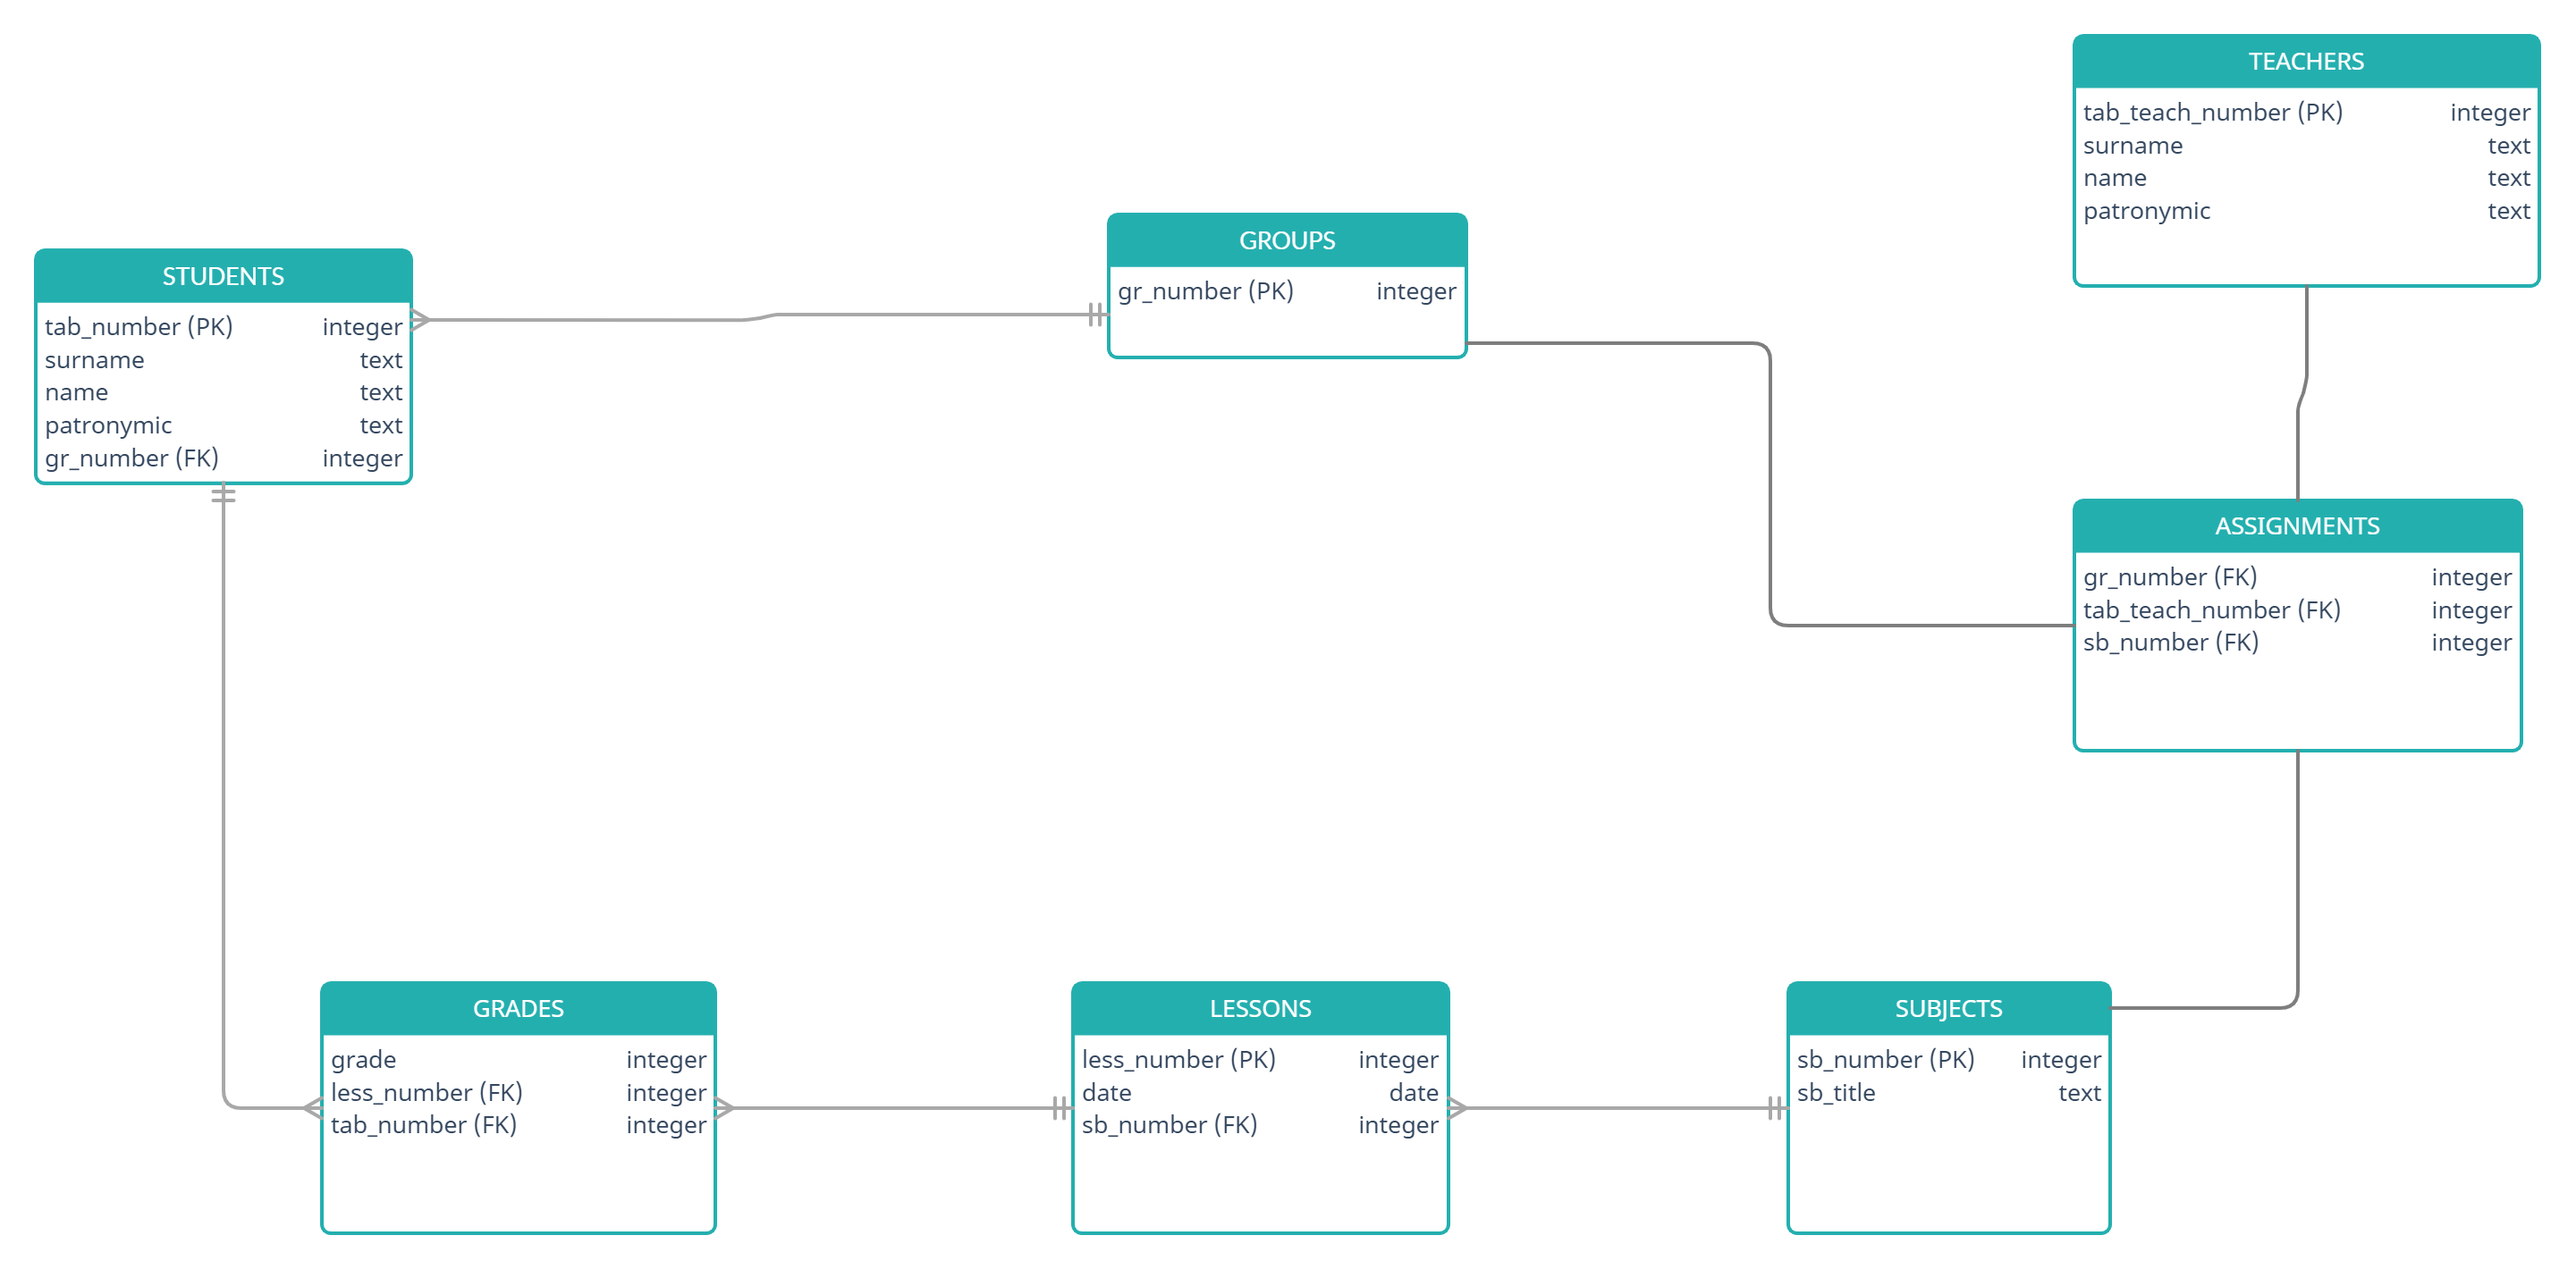
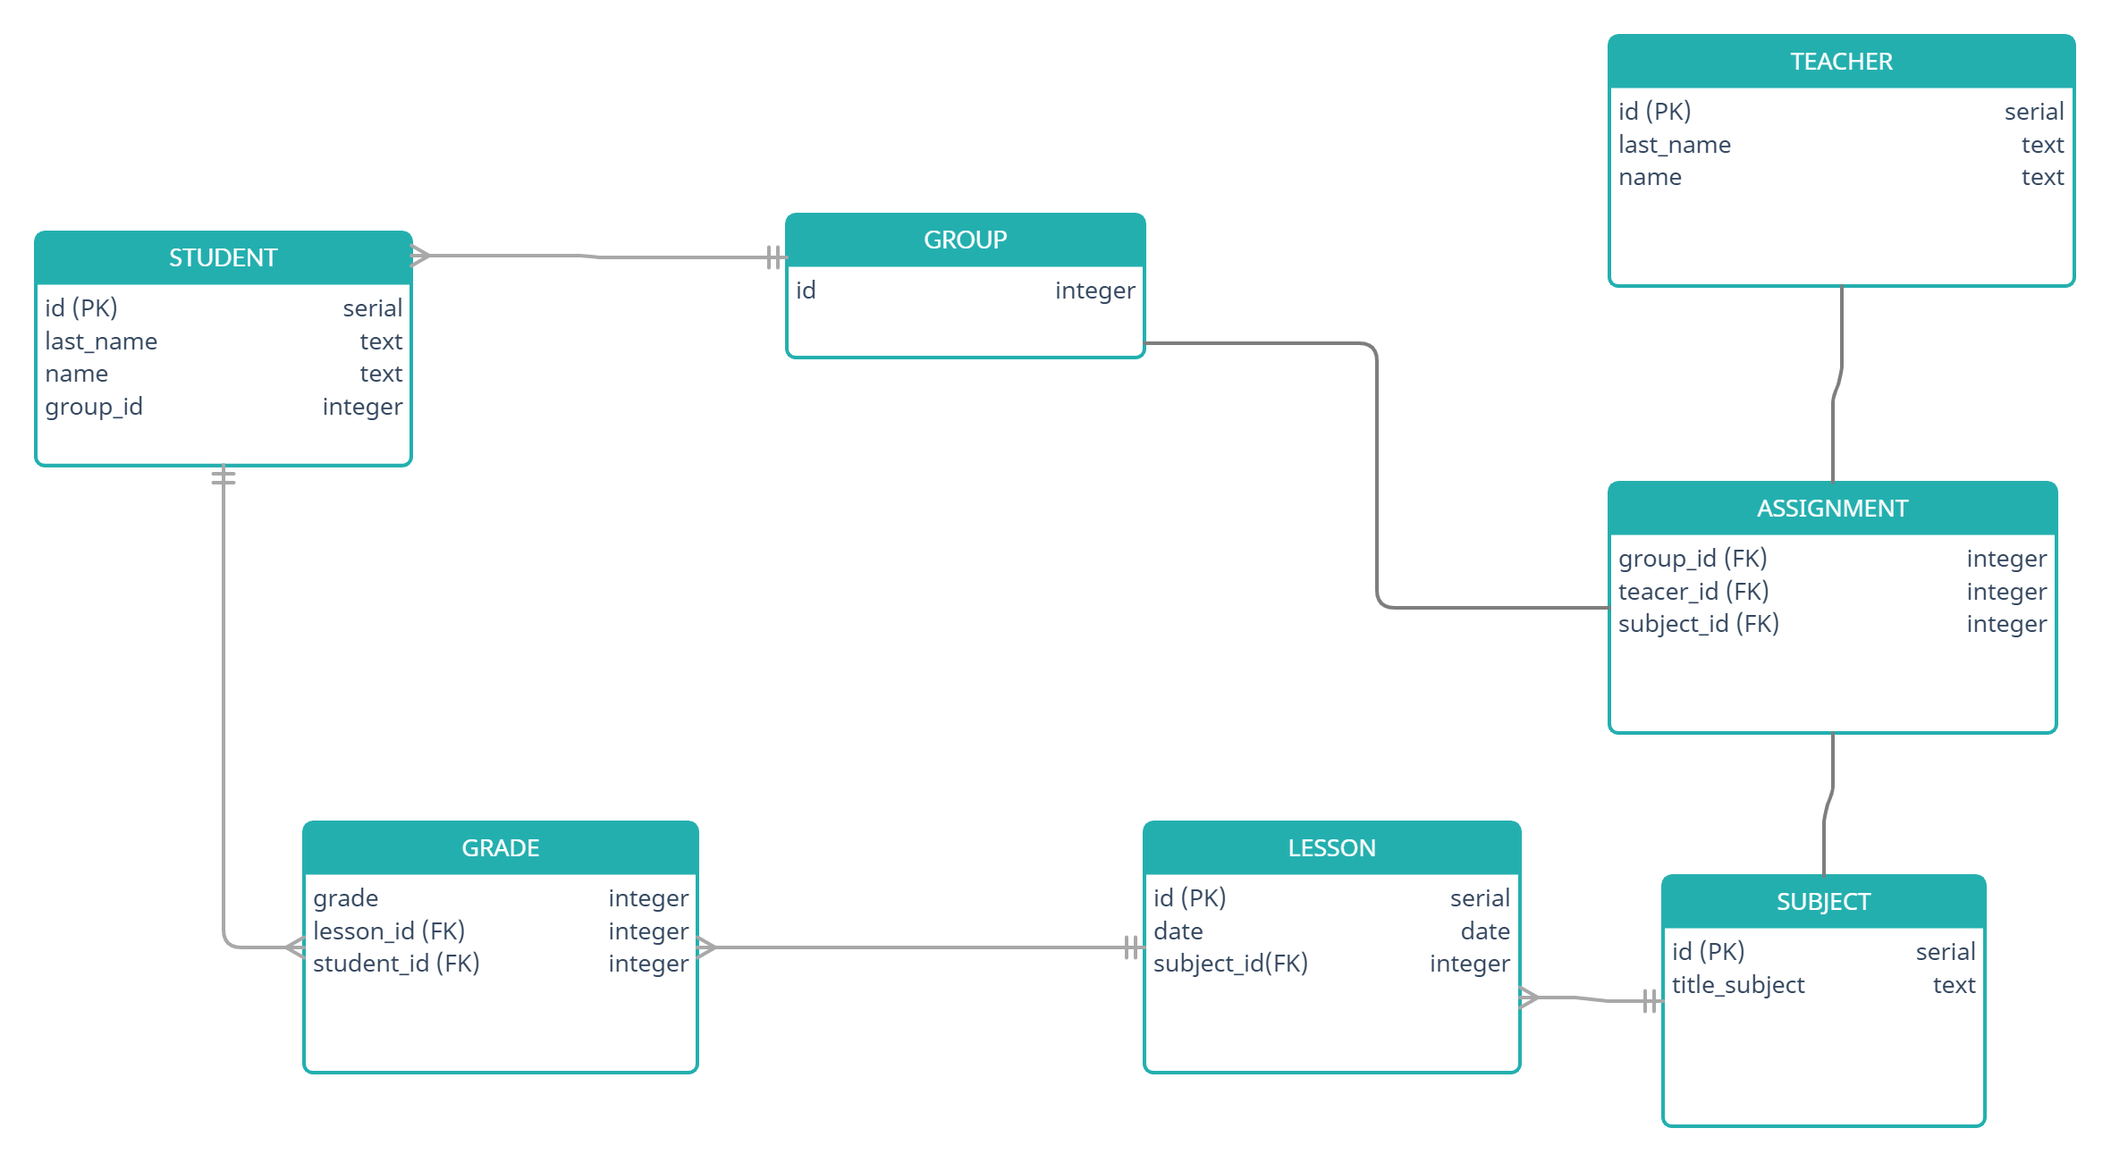
modified db_structure.png

diff --git a/hw8_SQL_database/db_students.py b/hw8_SQL_database/db_students.py
@@ -1,13 +1,61 @@
+
 import psycopg2
-import os
-
-con = psycopg2.connect(
-    database="students_and_grades",
-    user="diet",
-    password=input('input password for DB'),
-    host="81.17.140.55",
-    port="5432"
-)
 
 
-print('Database opened successfully')
+from faker import Faker
+from psycopg2 import Error
+from random import randint
+
+fake = Faker('uk_UA')
+
+try:
+    con = psycopg2.connect(
+        database="students_db",
+        user="diet",
+        password=input('input password for DB'),
+        host="81.17.140.55",
+        port="5432"
+    )
+
+    print('Database opened successfully')
+    cursor = con.cursor()
+
+    groups = (101, 102, 103)
+    # заполняем таблицу group и таблицу student
+    for group in groups:
+        insert_query = f"INSERT INTO public.group (group_number) VALUES ({group})"
+        cursor.execute(insert_query)
+        con.commit()
+        print(f"{group} запись успешно вставлена")
+        # Получить результат
+        cursor.execute("SELECT * from public.group")
+        record = cursor.fetchall()
+        print("Результат", record)
+        # для соответствующей группы вносим студентов в таблицу student
+        for _ in range(30):
+            # генерируем студента
+            # вносим данные студента в таблицу student
+            first_name, last_name = (fake.first_name_male(), fake.last_name_male()) if randint(
+                0, 1) else (fake.first_name_female(), fake.last_name_female())
+            print(f'{first_name}   {last_name}')
+            insert_query = f"INSERT INTO student (last_name, name, group_number) VALUES ('{last_name}', '{first_name}', {group})"
+            cursor.execute(insert_query)
+            con.commit()
+    for _ in range(3):
+        # генерируем преподавателя
+        # вносим данные преподавателя в таблицу teacher
+        first_name, last_name = (fake.first_name_male(), fake.last_name_male()) if randint(
+            0, 1) else (fake.first_name_female(), fake.last_name_female())
+        print(f'{first_name}   {last_name}')
+        insert_query = f"INSERT INTO teacher (last_name, name) VALUES ('{last_name}', '{first_name}')"
+        cursor.execute(insert_query)
+        con.commit()
+
+
+except (Exception, Error) as error:
+    print('Ошибка при работе с PostgreSQL', error)
+finally:
+    if con:
+        cursor.close()
+        con.close()
+        print("Соединение с PostgreSQL закрыто")
